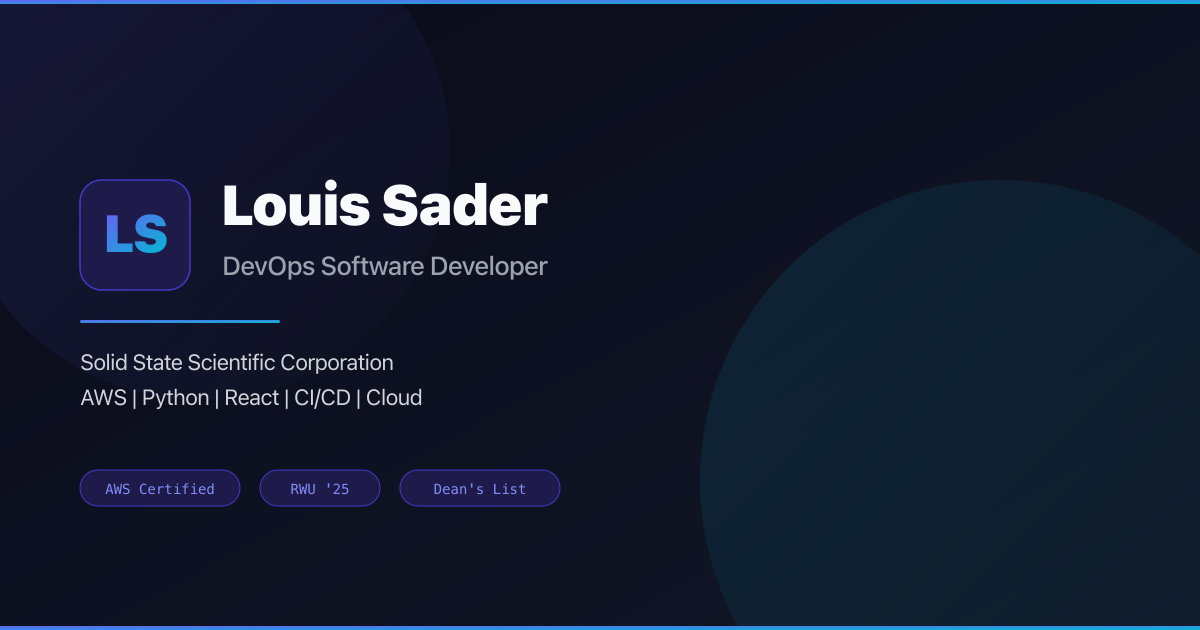
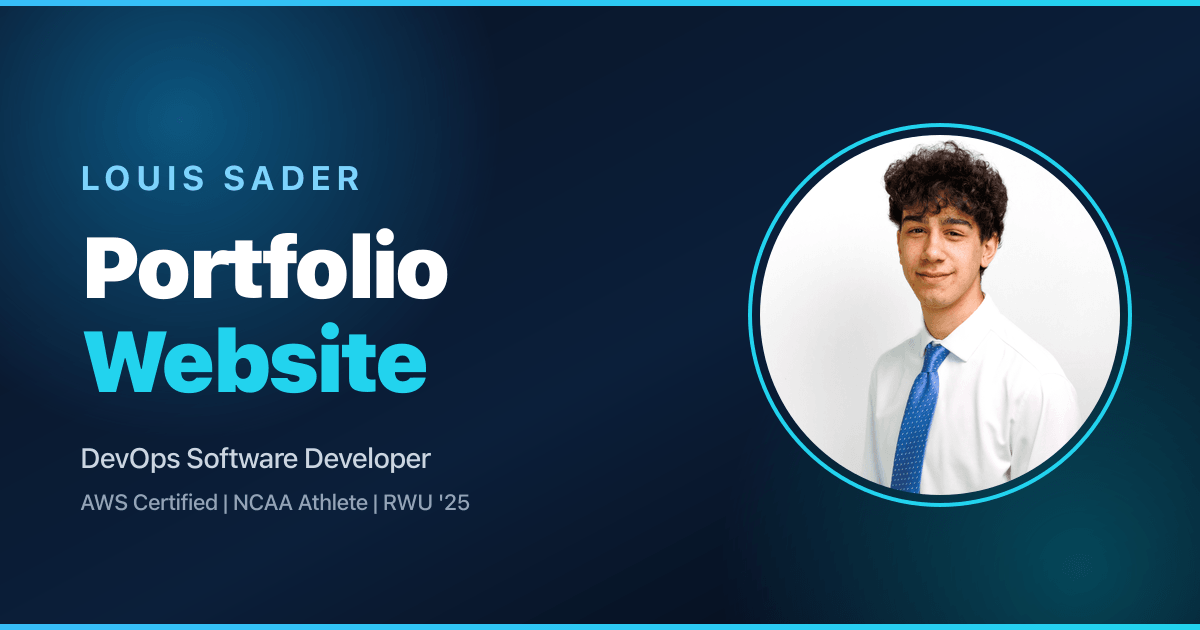
feat(seo): "Louis Sader Portfolio Website" share card with photo
- New og-image.png (84.7 KB, 1200x630). Adds the actual profile photo
  in a circular cyan-ringed crop on the right; "Portfolio Website"
  wordmark on the left with the LOUIS SADER caps overline. Generated
  via scripts/generate-og.mjs from the source jpeg + sharp.
- og:title and twitter:title both set to "Louis Sader Portfolio
  Website". Adds og:site_name, og:image:width/height/type/secure_url
  and og:image:alt so Slack/Discord/Meta render the rich card properly.
- Cache-busted og:image URL with ?v=2 so the iMessage/Slack/Discord
  link previewers refetch instead of serving the prior cached card.

diff --git a/index.html b/index.html
@@ -20,18 +20,26 @@
     <meta name="author" content="Louis Sader" />
     <link rel="canonical" href="https://louissader.dev/" />
 
-    <!-- Open Graph -->
-    <meta property="og:title" content="Louis Sader | DevOps Software Developer" />
-    <meta property="og:description" content="DevOps Software Developer building cloud and AI infrastructure with AWS, Terraform, Docker, and CI/CD pipelines. AWS Solutions Architect Associate certified." />
+    <!-- Open Graph. og:image is versioned (?v=2) so Slack/Discord/iMessage
+         link previewers refetch instead of serving the old cached card. -->
+    <meta property="og:title" content="Louis Sader Portfolio Website" />
+    <meta property="og:site_name" content="Louis Sader Portfolio Website" />
+    <meta property="og:description" content="DevOps Software Developer building cloud and AI infrastructure with AWS, Terraform, Docker, and CI/CD pipelines. AWS Solutions Architect Associate certified. NCAA athlete, six conference titles." />
     <meta property="og:type" content="website" />
     <meta property="og:url" content="https://louissader.dev/" />
-    <meta property="og:image" content="https://louissader.dev/og-image.png" />
+    <meta property="og:image" content="https://louissader.dev/og-image.png?v=2" />
+    <meta property="og:image:secure_url" content="https://louissader.dev/og-image.png?v=2" />
+    <meta property="og:image:type" content="image/png" />
+    <meta property="og:image:width" content="1200" />
+    <meta property="og:image:height" content="630" />
+    <meta property="og:image:alt" content="Louis Sader Portfolio Website" />
 
     <!-- Twitter Card -->
     <meta name="twitter:card" content="summary_large_image" />
-    <meta name="twitter:title" content="Louis Sader | DevOps Software Developer" />
-    <meta name="twitter:description" content="DevOps Software Developer building cloud and AI infrastructure with AWS, Terraform, Docker, and CI/CD pipelines. AWS Solutions Architect Associate certified." />
-    <meta name="twitter:image" content="https://louissader.dev/og-image.png" />
+    <meta name="twitter:title" content="Louis Sader Portfolio Website" />
+    <meta name="twitter:description" content="DevOps Software Developer. AWS Solutions Architect Associate certified. NCAA athlete, six conference titles." />
+    <meta name="twitter:image" content="https://louissader.dev/og-image.png?v=2" />
+    <meta name="twitter:image:alt" content="Louis Sader Portfolio Website" />
 
     <title>Louis Sader | DevOps Software Developer</title>
 
